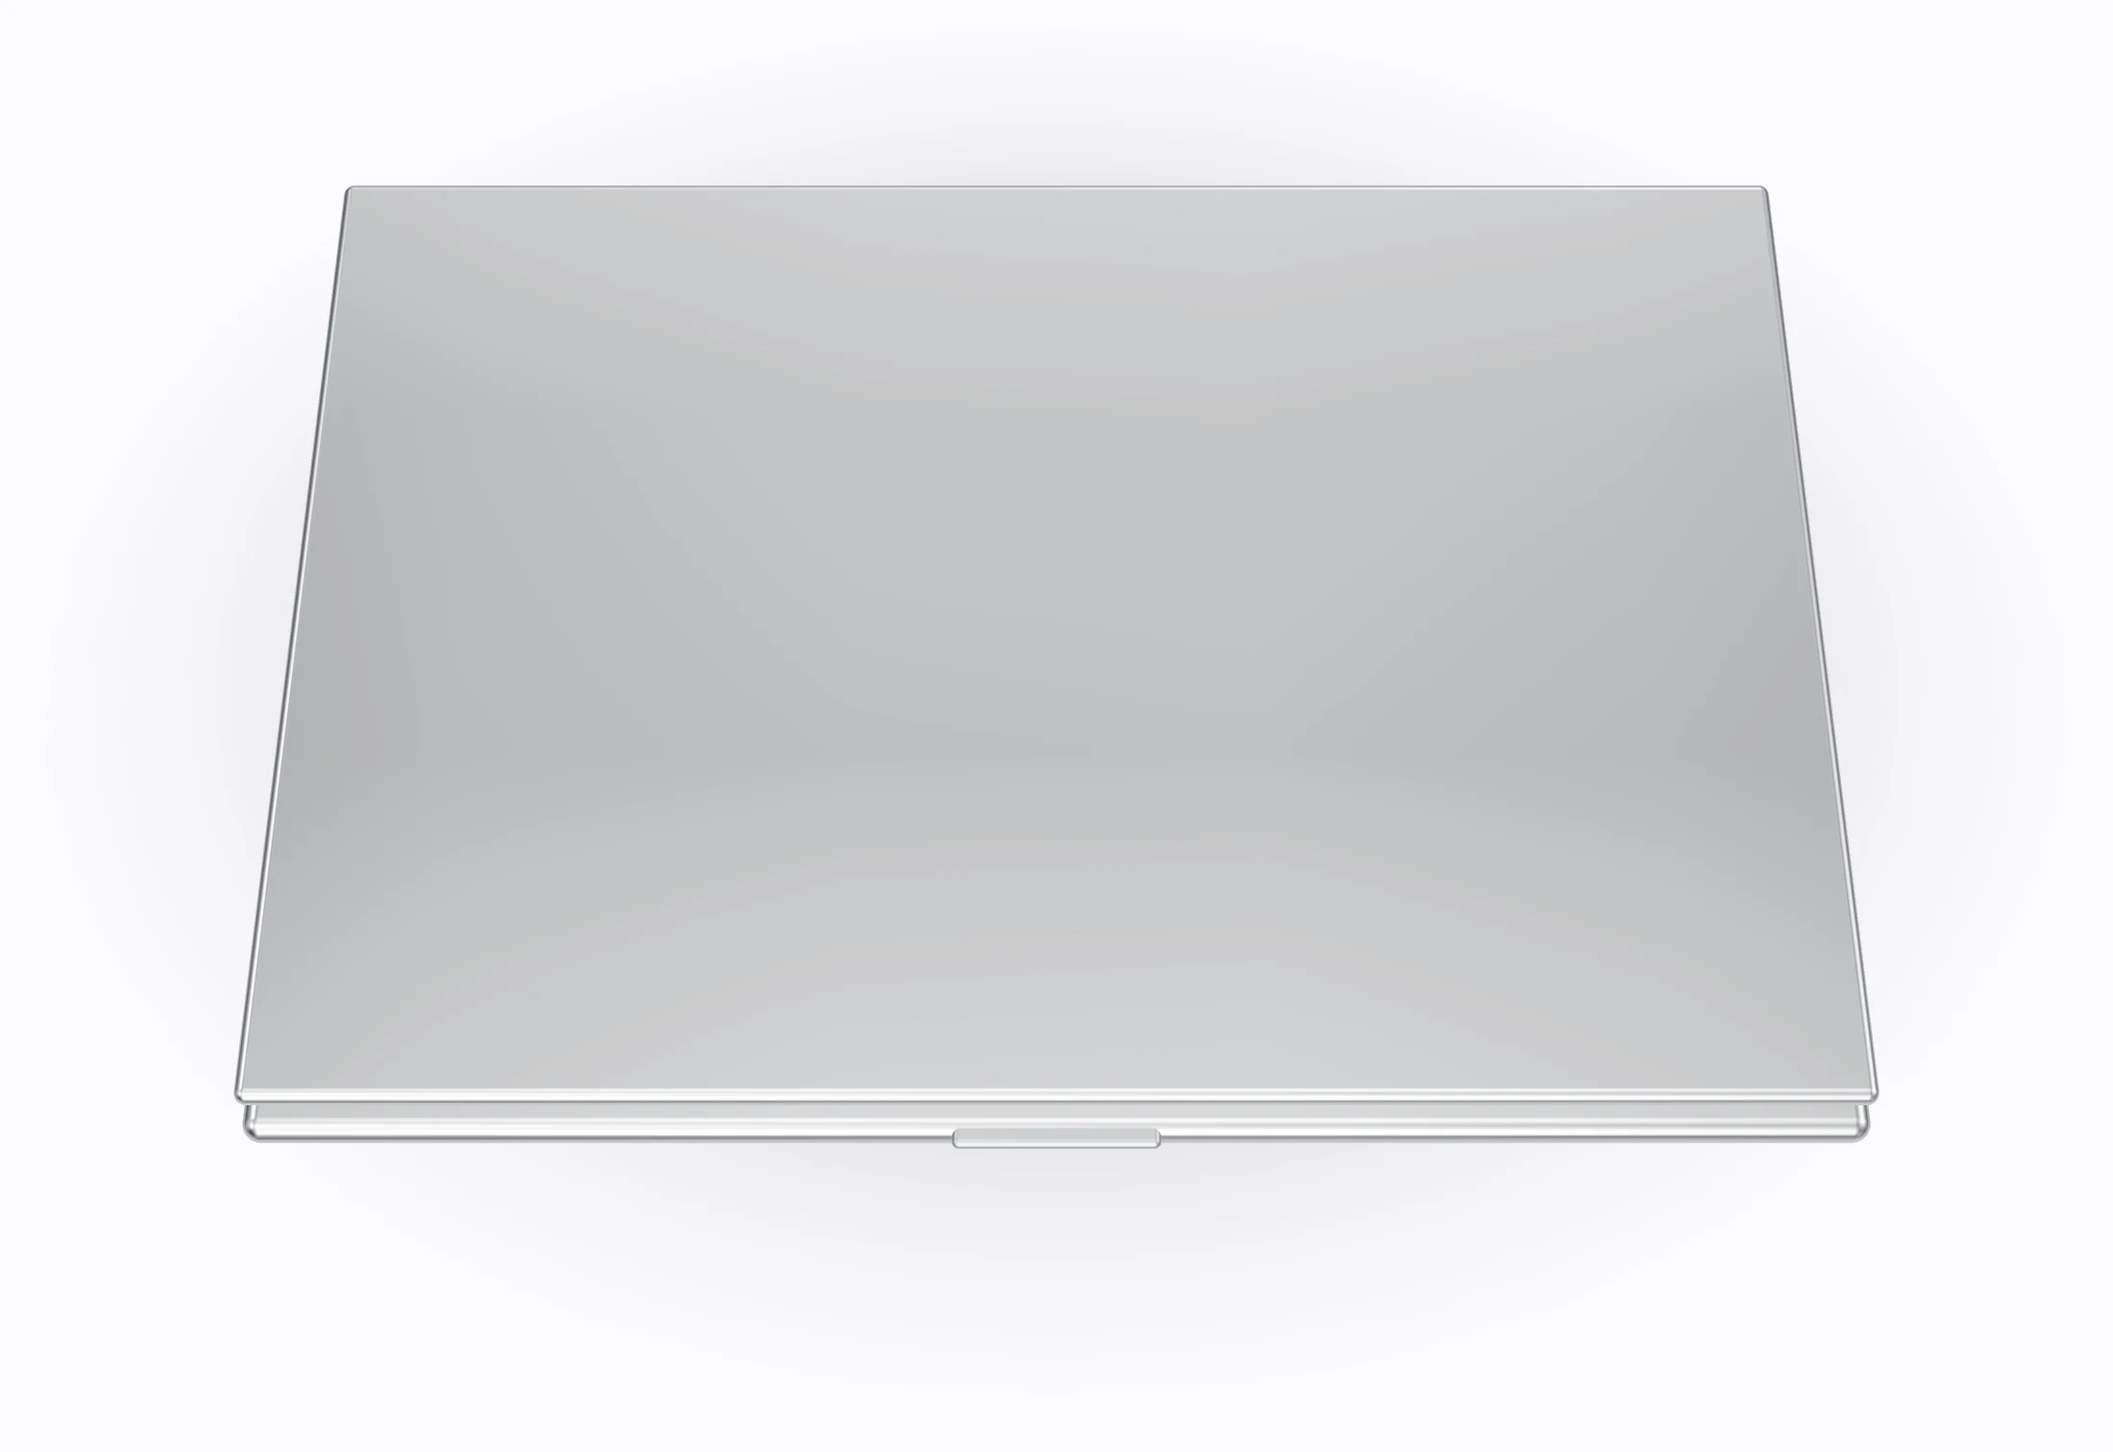
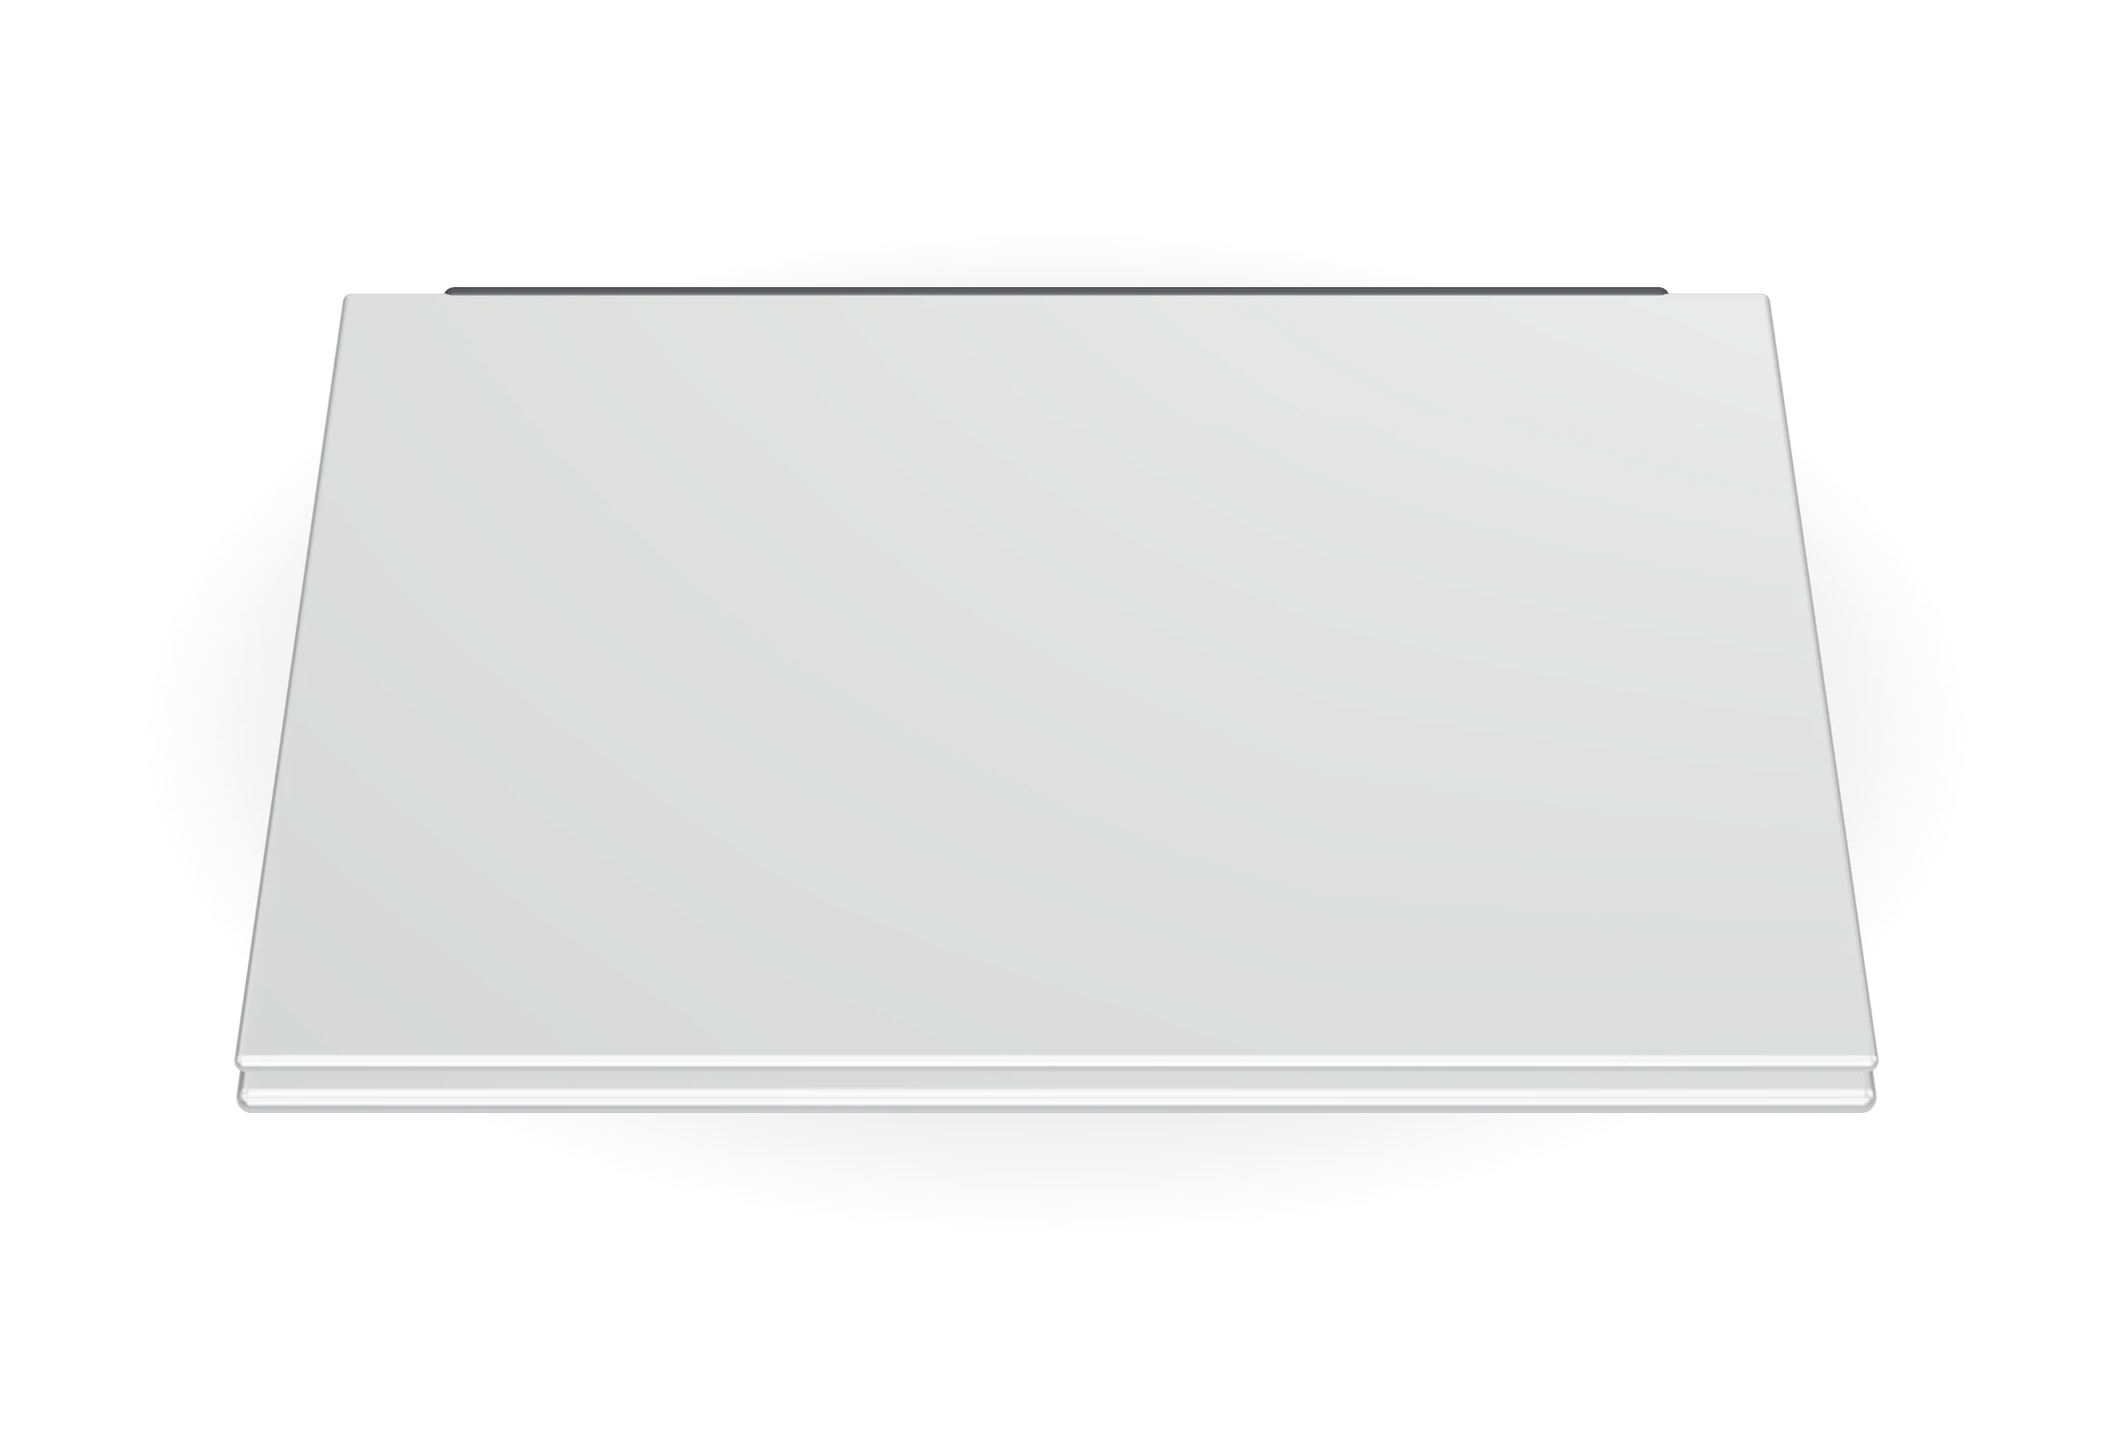
Portátil fotorrealista y muro de conectores sin pausa al pasar el ratón
- Marco de cristal negro casi de borde a borde, muesca redondeada,
  teclado con distribución real, rejillas de altavoz y trackpad amplio.
- Iluminación de estudio con sombras suaves y cámara teleobjetivo de
  producto; reflejo sobre la pantalla atenuado para no lavar los colores.
- Fotograma inicial con fondo transparente para que se funda con la página.
- El muro de conectores ya no se detiene al pasar el ratón (sigue el botón
  de pausa por accesibilidad).

diff --git a/src/three/laptopScene.ts b/src/three/laptopScene.ts
@@ -1,8 +1,8 @@
 /**
- * MacBook dibujado en tiempo real con three.js (materiales físicos + iluminación de entorno).
- * Mismo principio que las páginas de producto de Apple —un objeto 3D con materiales reales—,
- * pero renderizado en el navegador para mostrar la pantalla real y verse nítido a cualquier tamaño.
- * Solo se redibuja cuando cambia el progreso o el tamaño: no hay bucle continuo.
+ * Portátil fotorrealista dibujado en tiempo real con three.js.
+ * Mismo principio que las páginas de producto de Apple —un objeto 3D con materiales físicos e
+ * iluminación de estudio—, renderizado en el navegador para mostrar la pantalla real y verse
+ * nítido a cualquier tamaño. Solo se redibuja cuando cambia el progreso o el tamaño.
  */
 import {
   ACESFilmicToneMapping,
@@ -10,6 +10,7 @@ import {
   Color,
   DirectionalLight,
   Group,
+  HemisphereLight,
   InstancedMesh,
   MathUtils,
   Mesh,
@@ -17,9 +18,11 @@ import {
   MeshPhysicalMaterial,
   MeshStandardMaterial,
   Object3D,
+  PCFSoftShadowMap,
   PerspectiveCamera,
   PlaneGeometry,
   PMREMGenerator,
+  RepeatWrapping,
   Scene,
   SRGBColorSpace,
   TextureLoader,
@@ -34,152 +37,273 @@ export interface LaptopScene {
   dispose(): void
 }
 
-// Medidas en centímetros (proporciones de un portátil de 14 pulgadas).
-const W = 31.2
-const D = 22.0
-const BASE_H = 0.75
-const LID_T = 0.5
-const LID_H = 21.2
-const SCREEN_W = 29.6
+// Medidas en centímetros, proporciones de un portátil de 14 pulgadas.
+const W = 31.26
+const D = 22.12
+const BASE_H = 0.62
+const LID_T = 0.42
+const LID_H = 21.4
+const BEZEL = 0.55
+const SCREEN_W = W - 2 * BEZEL - 0.5
 const SCREEN_H = SCREEN_W / 1.6
 
-const ease = (t: number) => 1 - Math.pow(1 - t, 3)
+const ease = (t: number) => (t < 0.5 ? 4 * t * t * t : 1 - Math.pow(-2 * t + 2, 3) / 2)
 
-/** Sombra de contacto suave, dibujada una vez en un canvas. */
-function shadowTexture() {
+function canvasTexture(w: number, h: number, draw: (g: CanvasRenderingContext2D) => void) {
   const c = document.createElement('canvas')
-  c.width = c.height = 256
-  const g = c.getContext('2d')!
-  const grad = g.createRadialGradient(128, 128, 10, 128, 128, 128)
-  grad.addColorStop(0, 'rgba(0,0,0,0.32)')
-  grad.addColorStop(0.45, 'rgba(0,0,0,0.14)')
-  grad.addColorStop(0.8, 'rgba(0,0,0,0.03)')
-  grad.addColorStop(1, 'rgba(0,0,0,0)')
-  g.fillStyle = grad
-  g.fillRect(0, 0, 256, 256)
+  c.width = w
+  c.height = h
+  draw(c.getContext('2d')!)
   const t = new CanvasTexture(c)
   t.colorSpace = SRGBColorSpace
   return t
 }
+
+/** Rejilla de altavoz: puntos perforados sobre aluminio. */
+function grilleTexture() {
+  const t = canvasTexture(64, 256, (g) => {
+    g.fillStyle = '#d6d8db'
+    g.fillRect(0, 0, 64, 256)
+    g.fillStyle = '#2a2b2e'
+    for (let y = 4; y < 256; y += 6)
+      for (let x = 4 + ((y / 6) % 2) * 3; x < 64; x += 6) {
+        g.beginPath()
+        g.arc(x, y, 1.15, 0, Math.PI * 2)
+        g.fill()
+      }
+  })
+  t.wrapS = t.wrapT = RepeatWrapping
+  return t
+}
+
+/** Distribución de teclas por fila (anchos relativos) y altura relativa de cada fila. */
+const ROWS: { keys: number[]; h: number }[] = [
+  { keys: Array(14).fill(1), h: 0.55 },
+  { keys: [...Array(13).fill(1), 1.5], h: 1 },
+  { keys: [1.5, ...Array(12).fill(1), 1], h: 1 },
+  { keys: [1.75, ...Array(11).fill(1), 1.75], h: 1 },
+  { keys: [2.25, ...Array(10).fill(1), 2.25], h: 1 },
+  { keys: [1, 1, 1, 1.25, 5.5, 1.25, 1, 1, 1, 1], h: 1 },
+]
 
 export function createLaptopScene(canvas: HTMLCanvasElement, screenUrl: string, onReady: () => void): LaptopScene {
   const renderer = new WebGLRenderer({ canvas, antialias: true, alpha: true, powerPreference: 'high-performance' })
   renderer.setPixelRatio(Math.min(window.devicePixelRatio, 2))
   renderer.outputColorSpace = SRGBColorSpace
   renderer.toneMapping = ACESFilmicToneMapping
-  renderer.toneMappingExposure = 1.05
+  renderer.toneMappingExposure = 1.0
+  renderer.shadowMap.enabled = true
+  renderer.shadowMap.type = PCFSoftShadowMap
 
   const scene = new Scene()
   const pmrem = new PMREMGenerator(renderer)
-  const envTexture = pmrem.fromScene(new RoomEnvironment(), 0.04).texture
+  const envTexture = pmrem.fromScene(new RoomEnvironment(), 0.03).texture
   scene.environment = envTexture
 
-  const key = new DirectionalLight(0xffffff, 1.4)
-  key.position.set(-12, 30, 22)
+  // Luz de estudio: principal suave desde arriba-izquierda con sombras, relleno frío y luz de cielo.
+  const key = new DirectionalLight(0xffffff, 2.2)
+  key.position.set(-5, 48, 14)
+  key.castShadow = true
+  key.shadow.mapSize.set(2048, 2048)
+  key.shadow.camera.left = -26
+  key.shadow.camera.right = 26
+  key.shadow.camera.top = 26
+  key.shadow.camera.bottom = -26
+  key.shadow.radius = 6
+  key.shadow.bias = -0.0004
   scene.add(key)
+  const fill = new DirectionalLight(0xdfe8ff, 0.6)
+  fill.position.set(20, 12, 30)
+  scene.add(fill)
+  scene.add(new HemisphereLight(0xffffff, 0xd8d8dc, 0.35))
 
   // ── Materiales ──
   const aluminium = new MeshPhysicalMaterial({
-    color: new Color('#d3d5d8'),
+    color: new Color('#e1e2e4'),
     metalness: 1,
-    roughness: 0.24,
-    clearcoat: 0.35,
-    clearcoatRoughness: 0.3,
+    roughness: 0.38,
+    clearcoat: 0.15,
+    clearcoatRoughness: 0.5,
+    envMapIntensity: 1.1,
   })
-  const aluminiumDark = new MeshPhysicalMaterial({ color: new Color('#a9acb0'), metalness: 1, roughness: 0.45 })
-  const keyMat = new MeshStandardMaterial({ color: new Color('#141416'), roughness: 0.62, metalness: 0.1 })
-  const wellMat = new MeshStandardMaterial({ color: new Color('#0c0c0e'), roughness: 0.8 })
-  const glass = new MeshPhysicalMaterial({ color: new Color('#050506'), roughness: 0.08, metalness: 0, clearcoat: 1, clearcoatRoughness: 0.05 })
-  const trackpadMat = new MeshPhysicalMaterial({ color: new Color('#b9bcc0'), metalness: 0.9, roughness: 0.18, clearcoat: 0.6 })
+  const aluminiumEdge = new MeshPhysicalMaterial({ color: new Color('#f2f3f4'), metalness: 1, roughness: 0.18 })
+  const keyMat = new MeshPhysicalMaterial({
+    color: new Color('#09090a'),
+    roughness: 0.55,
+    metalness: 0,
+    clearcoat: 0.2,
+    clearcoatRoughness: 0.6,
+  })
+  const wellMat = new MeshStandardMaterial({ color: new Color('#08080a'), roughness: 0.9 })
+  // El marco no recibe luz: así se ve negro profundo, como el de un portátil real.
+  const bezelMat = new MeshBasicMaterial({ color: 0x050506, toneMapped: false })
+  // Muesca con esquinas inferiores redondeadas (dibujada en un canvas con transparencia).
+  const notchMat = new MeshBasicMaterial({
+    map: canvasTexture(256, 64, (g) => {
+      g.fillStyle = '#000'
+      g.beginPath()
+      g.roundRect(0, -32, 256, 96, 28)
+      g.fill()
+    }),
+    transparent: true,
+    toneMapped: false,
+  })
+  const trackpadMat = new MeshPhysicalMaterial({ color: new Color('#dcdee1'), metalness: 0.75, roughness: 0.28, clearcoat: 0.5 })
   const screenMat = new MeshBasicMaterial({ color: 0x0d1117, toneMapped: false })
+  // Cristal sobre la pantalla: refleja el estudio de forma sutil.
+  const screenGlass = new MeshPhysicalMaterial({
+    color: 0x000000,
+    roughness: 0.05,
+    metalness: 0,
+    clearcoat: 1,
+    transparent: true,
+    opacity: 0.035,
+    envMapIntensity: 0.6,
+    depthWrite: false,
+  })
+  const grilleMat = new MeshStandardMaterial({ map: grilleTexture(), metalness: 0.6, roughness: 0.45 })
 
   const laptop = new Group()
   scene.add(laptop)
 
   // ── Base ──
-  const base = new Mesh(new RoundedBoxGeometry(W, BASE_H, D, 6, 0.42), aluminium)
+  const base = new Mesh(new RoundedBoxGeometry(W, BASE_H, D, 8, 0.3), aluminium)
   base.position.y = BASE_H / 2
+  base.castShadow = true
+  base.receiveShadow = true
   laptop.add(base)
 
-  // Hueco del teclado
-  const well = new Mesh(new RoundedBoxGeometry(W * 0.86, 0.06, D * 0.42, 4, 0.03), wellMat)
-  well.position.set(0, BASE_H + 0.001, -D * 0.2)
+  // Hueco del teclado (casi a ras)
+  const kbW = W * 0.79
+  const kbD = D * 0.405
+  const kbZ = -D / 2 + 1.9 + kbD / 2
+  const well = new Mesh(new RoundedBoxGeometry(kbW + 0.5, 0.04, kbD + 0.45, 4, 0.02), wellMat)
+  well.position.set(0, BASE_H + 0.002, kbZ)
+  well.receiveShadow = true
   laptop.add(well)
 
-  // Teclas (instanciadas): 6 filas × 14 columnas
-  const cols = 14
-  const rows = 6
-  const gap = 0.24
-  const kw = (W * 0.84 - gap * (cols - 1)) / cols
-  const kd = (D * 0.4 - gap * (rows - 1)) / rows
-  const keys = new InstancedMesh(new RoundedBoxGeometry(kw, 0.12, kd, 3, 0.08), keyMat, cols * rows)
+  // Teclas con su distribución real
+  const gap = 0.19
+  const unitsPerRow = ROWS.map((r) => r.keys.reduce((a, b) => a + b, 0))
+  const totalH = ROWS.reduce((a, r) => a + r.h, 0)
+  const rowUnit = (kbD - gap * (ROWS.length - 1)) / totalH
+  const keyCount = ROWS.reduce((a, r) => a + r.keys.length, 0)
+  const keyGeo = new RoundedBoxGeometry(1, 0.16, 1, 3, 0.06)
+  const keys = new InstancedMesh(keyGeo, keyMat, keyCount)
+  keys.castShadow = true
+  keys.receiveShadow = true
   const tmp = new Object3D()
-  let i = 0
-  for (let r = 0; r < rows; r++) {
-    for (let c = 0; c < cols; c++) {
-      tmp.position.set(-W * 0.42 + kw / 2 + c * (kw + gap), BASE_H + 0.06, -D * 0.4 + kd / 2 + r * (kd + gap))
+  let idx = 0
+  let z = kbZ - kbD / 2
+  ROWS.forEach((row, r) => {
+    const unit = (kbW - gap * (row.keys.length - 1)) / unitsPerRow[r]
+    const depth = row.h * rowUnit
+    let x = -kbW / 2
+    row.keys.forEach((kw) => {
+      const w = kw * unit
+      tmp.position.set(x + w / 2, BASE_H + 0.07, z + depth / 2)
+      tmp.scale.set(w, 1, depth)
       tmp.updateMatrix()
-      keys.setMatrixAt(i++, tmp.matrix)
-    }
-  }
+      keys.setMatrixAt(idx++, tmp.matrix)
+      x += w + gap
+    })
+    z += depth + gap
+  })
   laptop.add(keys)
 
-  // Trackpad
-  const trackpad = new Mesh(new RoundedBoxGeometry(W * 0.42, 0.04, D * 0.36, 4, 0.3), trackpadMat)
-  trackpad.position.set(0, BASE_H + 0.005, D * 0.24)
+  // Rejillas de altavoz a ambos lados del teclado
+  const grilleGeo = new PlaneGeometry(1.5, kbD)
+  for (const side of [-1, 1]) {
+    const grille = new Mesh(grilleGeo, grilleMat)
+    grille.rotation.x = -Math.PI / 2
+    grille.position.set(side * (kbW / 2 + 1.25), BASE_H + 0.003, kbZ)
+    laptop.add(grille)
+  }
+
+  // Trackpad amplio
+  const tpW = W * 0.47
+  const tpD = D * 0.37
+  const trackpad = new Mesh(new RoundedBoxGeometry(tpW, 0.03, tpD, 4, 0.35), trackpadMat)
+  trackpad.position.set(0, BASE_H + 0.004, D / 2 - 1.0 - tpD / 2)
+  trackpad.receiveShadow = true
   laptop.add(trackpad)
 
-  // Muesca frontal para abrir
-  const notch = new Mesh(new RoundedBoxGeometry(4, 0.3, 0.6, 3, 0.14), aluminiumDark)
-  notch.position.set(0, BASE_H * 0.72, D / 2 - 0.12)
-  laptop.add(notch)
+  // Canto pulido y muesca frontal
+  const lip = new Mesh(new RoundedBoxGeometry(W - 0.4, 0.06, 0.06, 2, 0.03), aluminiumEdge)
+  lip.position.set(0, BASE_H - 0.02, D / 2 - 0.02)
+  laptop.add(lip)
 
   // ── Tapa (pivota sobre la bisagra trasera) ──
   const hinge = new Group()
-  hinge.position.set(0, BASE_H, -D / 2 + 0.35)
+  hinge.position.set(0, BASE_H, -D / 2 + 0.25)
   laptop.add(hinge)
 
-  const lidShell = new Mesh(new RoundedBoxGeometry(W, LID_H, LID_T, 6, 0.24), aluminium)
+  const lidShell = new Mesh(new RoundedBoxGeometry(W, LID_H, LID_T, 8, 0.2), aluminium)
   lidShell.position.set(0, LID_H / 2, -LID_T / 2)
+  lidShell.castShadow = true
   hinge.add(lidShell)
 
-  const bezel = new Mesh(new RoundedBoxGeometry(W - 0.2, LID_H - 0.2, 0.06, 4, 0.2), glass)
-  bezel.position.set(0, LID_H / 2, 0.02)
+  // Cristal negro casi de borde a borde
+  const bezel = new Mesh(new RoundedBoxGeometry(W - 0.32, LID_H - 0.32, 0.04, 4, 0.5), bezelMat)
+  bezel.position.set(0, LID_H / 2, 0.01)
   hinge.add(bezel)
 
+  const screenY = LID_H - BEZEL - 0.35 - SCREEN_H / 2
   const screen = new Mesh(new PlaneGeometry(SCREEN_W, SCREEN_H), screenMat)
-  screen.position.set(0, LID_H / 2 + 0.25, 0.06)
+  screen.position.set(0, screenY, 0.035)
   hinge.add(screen)
 
-  const camNotch = new Mesh(new RoundedBoxGeometry(2.6, 0.6, 0.02, 2, 0.12), glass)
-  camNotch.position.set(0, LID_H / 2 + 0.25 + SCREEN_H / 2 - 0.2, 0.075)
+  const glassFront = new Mesh(new PlaneGeometry(W - 0.4, LID_H - 0.4), screenGlass)
+  glassFront.position.set(0, LID_H / 2, 0.045)
+  hinge.add(glassFront)
+
+  // Muesca de la cámara
+  const camNotch = new Mesh(new PlaneGeometry(3.1, 0.78), notchMat)
+  camNotch.position.set(0, screenY + SCREEN_H / 2 - 0.38, 0.04)
   hinge.add(camNotch)
 
-  // Sombra de contacto
-  const shadow = new Mesh(
-    new PlaneGeometry(W * 1.35, D * 1.45),
-    new MeshBasicMaterial({ map: shadowTexture(), transparent: true, depthWrite: false }),
-  )
-  shadow.rotation.x = -Math.PI / 2
-  shadow.position.y = 0.01
-  laptop.add(shadow)
+  // Barra de la bisagra
+  const hingeBar = new Mesh(new RoundedBoxGeometry(W * 0.86, 0.5, 0.5, 3, 0.24), new MeshStandardMaterial({ color: '#2b2c2f', roughness: 0.5 }))
+  hingeBar.position.set(0, 0.05, -0.2)
+  hinge.add(hingeBar)
 
-  // ── Cámara ──
-  const camera = new PerspectiveCamera(26, 1, 1, 400)
+  // Sombra de contacto muy pegada al objeto (oclusión ambiental falsa)
+  const contact = new Mesh(
+    new PlaneGeometry(W * 1.2, D * 1.25),
+    new MeshBasicMaterial({
+      map: canvasTexture(256, 256, (g) => {
+        const grad = g.createRadialGradient(128, 128, 20, 128, 128, 128)
+        grad.addColorStop(0, 'rgba(0,0,0,0.3)')
+        grad.addColorStop(0.6, 'rgba(0,0,0,0.1)')
+        grad.addColorStop(1, 'rgba(0,0,0,0)')
+        g.fillStyle = grad
+        g.fillRect(0, 0, 256, 256)
+      }),
+      transparent: true,
+      depthWrite: false,
+    }),
+  )
+  contact.rotation.x = -Math.PI / 2
+  contact.position.y = 0.005
+  scene.add(contact)
+
+  // ── Cámara de producto: teleobjetivo (poca deformación) ──
+  const camera = new PerspectiveCamera(17, 1, 5, 600)
 
   let progress = 0
   let frame = 0
 
   const render = () => {
     frame = 0
-    const t = ease(MathUtils.clamp(progress, 0, 1))
-    // Tapa: cerrada (≈ +90°, sobre el teclado) → abierta unos 105°.
-    hinge.rotation.x = MathUtils.lerp(Math.PI / 2 - 0.012, -0.26, t)
-    // Cámara: de una vista desde arriba a una vista frontal ligeramente elevada.
-    const camY = MathUtils.lerp(58, 20, t)
-    const camZ = MathUtils.lerp(30, 62, t)
-    camera.position.set(0, camY, camZ)
-    camera.lookAt(0, MathUtils.lerp(0, 8.5, t), MathUtils.lerp(2, -2, t))
+    const p = MathUtils.clamp(progress, 0, 1)
+    const t = ease(p)
+    // Tapa: cerrada sobre el teclado → abierta ~108°.
+    hinge.rotation.x = MathUtils.lerp(Math.PI / 2 - 0.006, -0.31, t)
+    // Cámara: de una vista alta en tres cuartos a una vista frontal ligeramente elevada.
+    const dist = MathUtils.lerp(100, 94, t)
+    const elev = MathUtils.lerp(MathUtils.degToRad(48), MathUtils.degToRad(13), t)
+    camera.position.set(0, Math.sin(elev) * dist, Math.cos(elev) * dist)
+    camera.lookAt(0, MathUtils.lerp(0.5, 9.2, t), MathUtils.lerp(1.5, -3, t))
     renderer.render(scene, camera)
   }
   const schedule = () => {

diff --git a/src/sections/ConnectorWall.module.css b/src/sections/ConnectorWall.module.css
@@ -76,7 +76,6 @@
   animation-duration: 95s;
 }
 
-.wall:hover .track,
 .paused .track {
   animation-play-state: paused;
 }
